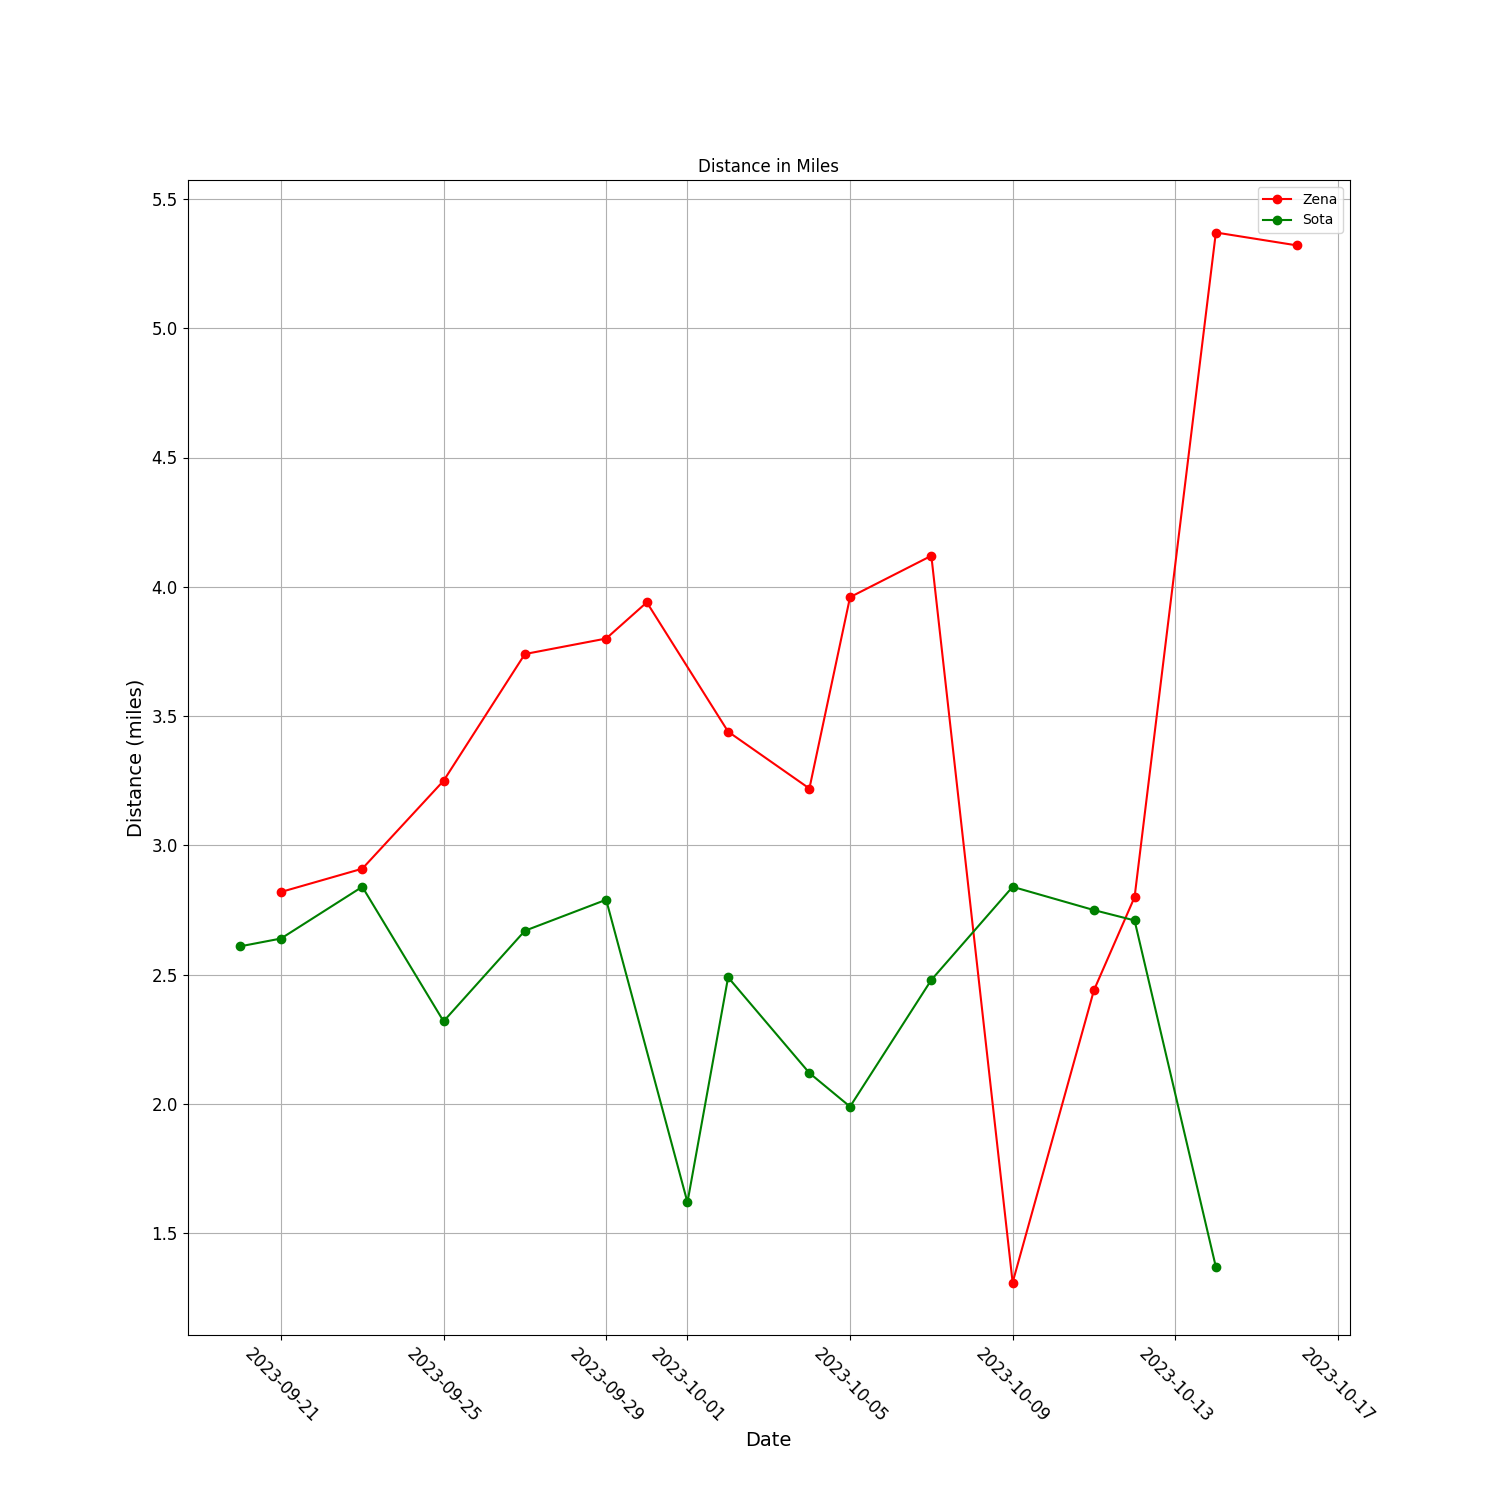
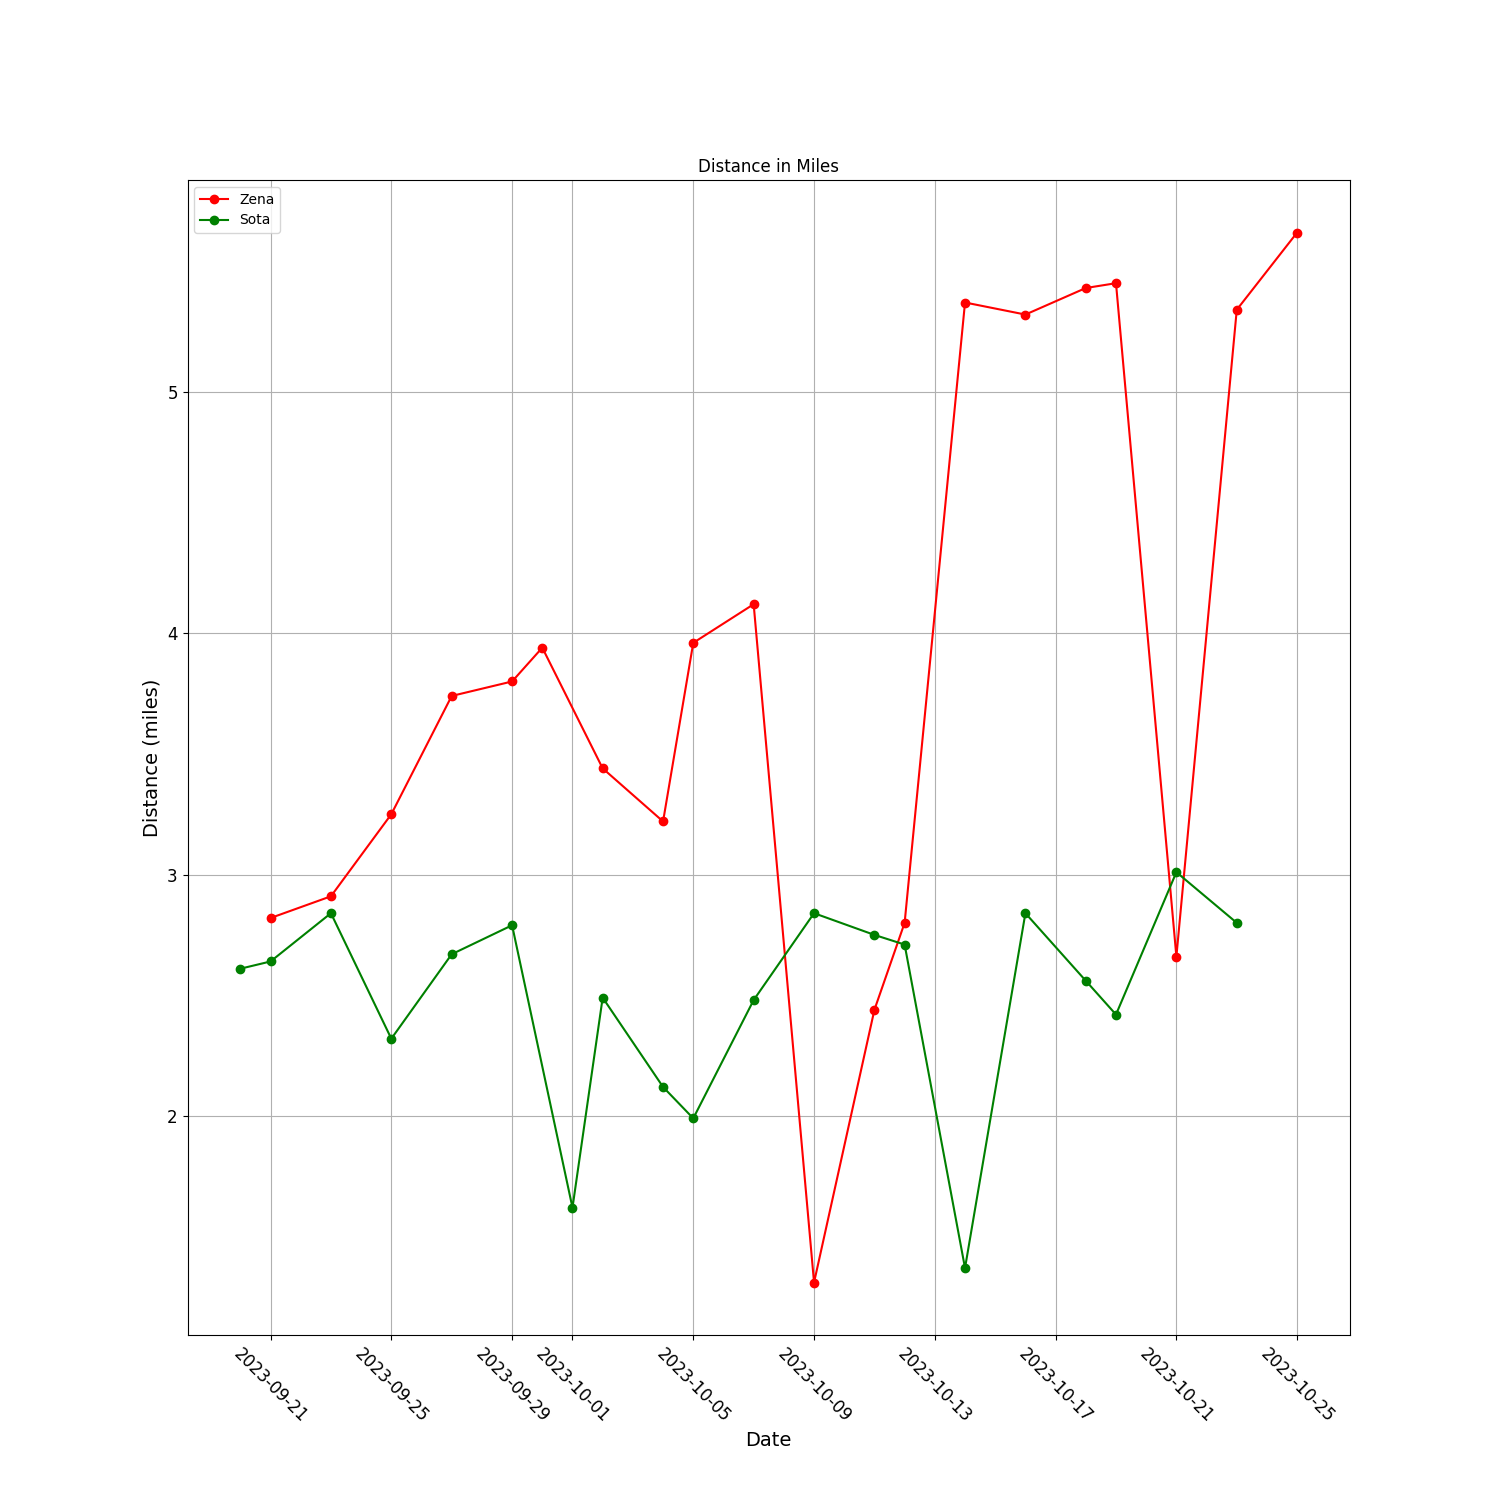
weekly workout update

diff --git a/data_sota.py b/data_sota.py
@@ -16,6 +16,11 @@ SOTA_DATA = [
     {"date": "2023-10-11", "distance_miles": 2.75, "time_minutes": 30, "name": "Sota"},
     {"date": "2023-10-12", "distance_miles": 2.71, "time_minutes": 30, "name": "Sota"},
     {"date": "2023-10-14", "distance_miles": 1.37, "time_minutes": 30, "name": "Sota"},
+    {"date": "2023-10-16", "distance_miles": 2.84, "time_minutes": 30, "name": "Sota"},
+    {"date": "2023-10-18", "distance_miles": 2.56, "time_minutes": 30, "name": "Sota"},
+    {"date": "2023-10-19", "distance_miles": 2.42, "time_minutes": 30, "name": "Sota"},
+    {"date": "2023-10-21", "distance_miles": 3.01, "time_minutes": 30, "name": "Sota"},
+    {"date": "2023-10-23", "distance_miles": 2.80, "time_minutes": 30, "name": "Sota"},
 ]
 
 SOTA_CONSISTENCY_TUPLES = [(datum['time_minutes'], util.to_date(datum['date'])) for datum in SOTA_DATA]

diff --git a/data_zena.py b/data_zena.py
@@ -17,6 +17,11 @@ ZENA_DATA = [
     {"date": "2023-10-12", "distance_miles": 2.80, "time_minutes": 65, "name": "Zena"},
     {"date": "2023-10-14", "distance_miles": 5.37, "time_minutes": 65, "name": "Zena"},
     {"date": "2023-10-16", "distance_miles": 5.32, "time_minutes": 65, "name": "Zena"},
+    {"date": "2023-10-18", "distance_miles": 5.43, "time_minutes": 65, "name": "Zena"},
+    {"date": "2023-10-19", "distance_miles": 5.45, "time_minutes": 65, "name": "Zena"},
+    {"date": "2023-10-21", "distance_miles": 2.66, "time_minutes": 30, "name": "Zena"},
+    {"date": "2023-10-23", "distance_miles": 5.34, "time_minutes": 65, "name": "Zena"},
+    {"date": "2023-10-25", "distance_miles": 5.66, "time_minutes": 65, "name": "Zena"},
 ]
 
 ZENA_CONSISTENCY_TUPLES = [(datum['time_minutes'], util.to_date(datum['date'])) for datum in ZENA_DATA]
